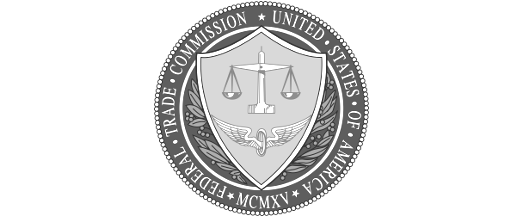
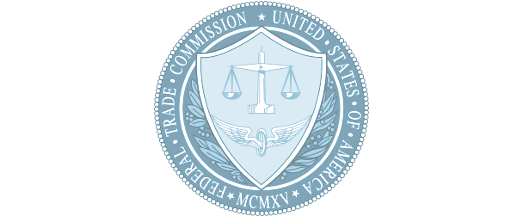
home page improvements

Changed region(s): [[0.2748, 0.0, 0.7023, 0.9908]]

diff --git a/_site/index.html b/_site/index.html
@@ -80,25 +80,25 @@
     </div> <!-- /container -->
 </div><!-- /headerwrap -->
 
-  <div id="service" style="background:#dfe8ec;padding-top:50px;padding-bottom:50px;">
+  <div id="service" style="background:#dfe8ec;padding-top:50px;padding-bottom:50px;border-top: 1px solid #cedce3;border-bottom: 1px solid #cedce3;">
     <div class="container">
         <div class="row centered">
 
             <div class="col-md-4">
                 <a href="/gw/open/" ><img src="/gw/assets/img/chart.png" width="60">
-                <h4 style="color:#2e4450;font-size:18px;margin-bottom:0;font-weight:600;">Visualize</h4></a>
+                <h4 style="color:#5d8aa2;font-size:18px;margin-bottom:0;font-weight:600;">Visualize</h4></a>
                 <p class="text-muted" style="font-weight:300;">Lorem ipsum dolor sit amet, molestie eros cubilia, condimentum lacinia ligula habitasse et.</p>
             </div>
 
             <div class="col-md-4">
                <a href="/gw/combine/"> <img src="/gw/assets/img/magnifier.png" width="60">
-            <h4 style="color:#2e4450;font-size:18px;margin-bottom:0;font-weight:600;">Search</h4></a>
+            <h4 style="color:#5d8aa2;font-size:18px;margin-bottom:0;font-weight:600;">Search</h4></a>
                 <p class="text-muted" style="font-weight:300;margin-top:5px;">Lorem ipsum dolor sit amet, molestie eros cubilia, condimentum lacinia ligula habitasse et.</p>
             </div>
 
             <div class="col-md-4">
                 <a href="/gw/expose/"><img src="/gw/assets/img/cursor.png" width="60">
-                <h4 style="color:#2e4450;font-size:18px;margin-bottom:0;font-weight:600;">Browse</h4></a>
+                <h4 style="color:#5d8aa2;font-size:18px;margin-bottom:0;font-weight:600;">Browse</h4></a>
                 <p class="text-muted" style="font-weight:300;margin-top:5px;">Lorem ipsum dolor sit amet, molestie eros cubilia, condimentum lacinia ligula habitasse et.</p>
             </div>
         </div>
@@ -111,55 +111,62 @@
 <div id="zwrap">
     <div class="container">
         <div class="row centered">
+        	<div class="col-md-10 col-md-offset-1">
             
                 <div class="col-lg-3 col-md-3 col-sm-3">
-                    <img src="/gw/assets/img/clients/gsa.png" class="img-responsive" style="max-width:55%;">
+                	<a href="http://www.gsa.gov/">
+                    <img src="/gw/assets/img/clients/gsa.png" class="img-responsive" style="max-width:55%;"></a>
                 </div>
             
                 <div class="col-lg-3 col-md-3 col-sm-3">
-                    <img src="/gw/assets/img/clients/ita.png" class="img-responsive" style="max-width:55%;">
+                	<a href="http://trade.gov/">
+                    <img src="/gw/assets/img/clients/ita.png" class="img-responsive" style="max-width:55%;"></a>
                 </div>
             
                 <div class="col-lg-3 col-md-3 col-sm-3">
-                    <img src="/gw/assets/img/clients/ftc.png" class="img-responsive" style="max-width:55%;">
+                	<a href="https://www.ftc.gov/">
+                    <img src="/gw/assets/img/clients/ftc.png" class="img-responsive" style="max-width:55%;"></a>
                 </div>
             
                 <div class="col-lg-3 col-md-3 col-sm-3">
-                    <img src="/gw/assets/img/clients/susa.png" class="img-responsive" style="max-width:55%;">
+                	<a href="https://www.selectusa.gov">
+                    <img src="/gw/assets/img/clients/susa.png" class="img-responsive" style="max-width:55%;"></a>
                 </div>
             
+            </div>
         </div><! --/row -->
+         </br><hr class="style-two">
     </div><! --/container -->
 </div><! --/cwrap -->
 
 </div>
 
-<div class="jumbotron" style="background-color:#fff;height:400px;margin-top:50px;margin-bottom:0;padding-top:40px;padding-bottom:40px;">
+<div class="jumbotron" style="background-color:#fff;margin-top:0px;margin-bottom:0;padding-top:25px;padding-bottom:100px;">
       <div class="container">
-        <p>under contruction...</p>
-        <h3 class="home">How It Works</h3>
         <div class="row centered">
-
+            <div class="col-md-10 col-md-offset-1">
+            <h2 style="color:#2e4450;font-size:36px;font-weight:700;">How It Works</h2></br>
             <div class="col-md-4">
-                <a href="/gw/open/" ><h4 style="color:#2e4450;font-size:18px;margin-bottom:0;font-weight:600;">Open</h4></a>
-                
+                <a href="/gw/open/" ><h4 style="color:#2e4450;font-size:24px;margin-bottom:0;font-weight:400;">1. Open</h4></a>
+                <p style="font-size:18px;line-height:1.5em;">Facilisis viverra ligula amet odio elit, hymenaeos diam, nullam a mattis suscipit, justo viverra quis, aliquam.</p>
             </div>
 
             <div class="col-md-4">
-            <a href="/gw/combine/"><h4 style="color:#2e4450;font-size:18px;margin-bottom:0;font-weight:600;">Combine</h4></a>
-               
+            <a href="/gw/combine/"><h4 style="color:#2e4450;font-size:24px;margin-bottom:0;font-weight:400;">2. Combine</h4></a>
+               <p style="font-size:18px;line-height:1.5em;">At dignissim enim nec commodo. Adipiscing porttitor consequat quis vitae, massa euismod venenatis dictum.</p>
             </div>
 
             <div class="col-md-4">
-                <a href="/gw/expose/"><h4 style="color:#2e4450;font-size:18px;margin-bottom:0;font-weight:600;">Expose</h4></a>
-                
+                <a href="/gw/expose/"><h4 style="color:#2e4450;font-size:24px;margin-bottom:0;font-weight:400;">3. Expose</h4></a>
+                <p style="font-size:18px;line-height:1.5em;">Consectetuer eleifend vitae purus elit odio rhoncus, pulvinar enim at phasellus sit dignissim senectus, velit vivamus.</p>
+            </div>
             </div>
         </div>
       </div>
     </div>
 
 
-    <div class="jumbotron" style="background-color:#eff3f6;margin-bottom:0;padding-top:40px;padding-bottom:40px;">
+    <div class="jumbotron" style="background-color:#eff3f6;margin-bottom:0;padding-top:40px;padding-bottom:40px;border-top: 1px solid #dee6ed;border-bottom: 1px solid #dee6ed;">
       <div class="container">
         <h3 class="home">Our Services</h3>
         <p>Custom information solutions based on your needs.</p>

diff --git a/index.html b/index.html
@@ -6,25 +6,25 @@ permalink: /
 
 
 
-<div id="service" style="background:#dfe8ec;padding-top:50px;padding-bottom:50px;">
+<div id="service" style="background:#dfe8ec;padding-top:50px;padding-bottom:50px;border-top: 1px solid #cedce3;border-bottom: 1px solid #cedce3;">
     <div class="container">
         <div class="row centered">
 
             <div class="col-md-4">
                 <a href="{{site.baseurl}}/open/" ><img src="{{site.baseurl}}/assets/img/chart.png" width="60">
-                <h4 style="color:#2e4450;font-size:18px;margin-bottom:0;font-weight:600;">Visualize</h4></a>
+                <h4 style="color:#5d8aa2;font-size:18px;margin-bottom:0;font-weight:600;">Visualize</h4></a>
                 <p class="text-muted" style="font-weight:300;">Lorem ipsum dolor sit amet, molestie eros cubilia, condimentum lacinia ligula habitasse et.</p>
             </div>
 
             <div class="col-md-4">
                <a href="{{site.baseurl}}/combine/"> <img src="{{site.baseurl}}/assets/img/magnifier.png" width="60">
-            <h4 style="color:#2e4450;font-size:18px;margin-bottom:0;font-weight:600;">Search</h4></a>
+            <h4 style="color:#5d8aa2;font-size:18px;margin-bottom:0;font-weight:600;">Search</h4></a>
                 <p class="text-muted" style="font-weight:300;margin-top:5px;">Lorem ipsum dolor sit amet, molestie eros cubilia, condimentum lacinia ligula habitasse et.</p>
             </div>
 
             <div class="col-md-4">
                 <a href="{{site.baseurl}}/expose/"><img src="{{site.baseurl}}/assets/img/cursor.png" width="60">
-                <h4 style="color:#2e4450;font-size:18px;margin-bottom:0;font-weight:600;">Browse</h4></a>
+                <h4 style="color:#5d8aa2;font-size:18px;margin-bottom:0;font-weight:600;">Browse</h4></a>
                 <p class="text-muted" style="font-weight:300;margin-top:5px;">Lorem ipsum dolor sit amet, molestie eros cubilia, condimentum lacinia ligula habitasse et.</p>
             </div>
         </div>
@@ -37,32 +37,32 @@ permalink: /
 {% include clients.html %}
 </div>
 
-<div class="jumbotron" style="background-color:#fff;height:400px;margin-top:50px;margin-bottom:0;padding-top:40px;padding-bottom:40px;">
+<div class="jumbotron" style="background-color:#fff;margin-top:0px;margin-bottom:0;padding-top:25px;padding-bottom:100px;">
       <div class="container">
-        <p>under contruction...</p>
-        <h3 class="home">How It Works</h3>
         <div class="row centered">
-
+            <div class="col-md-10 col-md-offset-1">
+            <h2 style="color:#2e4450;font-size:36px;font-weight:700;">How It Works</h2></br>
             <div class="col-md-4">
-                <a href="{{site.baseurl}}/open/" ><h4 style="color:#2e4450;font-size:18px;margin-bottom:0;font-weight:600;">Open</h4></a>
-                
+                <a href="{{site.baseurl}}/open/" ><h4 style="color:#2e4450;font-size:24px;margin-bottom:0;font-weight:400;">1. Open</h4></a>
+                <p style="font-size:18px;line-height:1.5em;">Facilisis viverra ligula amet odio elit, hymenaeos diam, nullam a mattis suscipit, justo viverra quis, aliquam.</p>
             </div>
 
             <div class="col-md-4">
-            <a href="{{site.baseurl}}/combine/"><h4 style="color:#2e4450;font-size:18px;margin-bottom:0;font-weight:600;">Combine</h4></a>
-               
+            <a href="{{site.baseurl}}/combine/"><h4 style="color:#2e4450;font-size:24px;margin-bottom:0;font-weight:400;">2. Combine</h4></a>
+               <p style="font-size:18px;line-height:1.5em;">At dignissim enim nec commodo. Adipiscing porttitor consequat quis vitae, massa euismod venenatis dictum.</p>
             </div>
 
             <div class="col-md-4">
-                <a href="{{site.baseurl}}/expose/"><h4 style="color:#2e4450;font-size:18px;margin-bottom:0;font-weight:600;">Expose</h4></a>
-                
+                <a href="{{site.baseurl}}/expose/"><h4 style="color:#2e4450;font-size:24px;margin-bottom:0;font-weight:400;">3. Expose</h4></a>
+                <p style="font-size:18px;line-height:1.5em;">Consectetuer eleifend vitae purus elit odio rhoncus, pulvinar enim at phasellus sit dignissim senectus, velit vivamus.</p>
+            </div>
             </div>
         </div>
       </div>
     </div>
 
 
-    <div class="jumbotron" style="background-color:#eff3f6;margin-bottom:0;padding-top:40px;padding-bottom:40px;">
+    <div class="jumbotron" style="background-color:#eff3f6;margin-bottom:0;padding-top:40px;padding-bottom:40px;border-top: 1px solid #dee6ed;border-bottom: 1px solid #dee6ed;">
       <div class="container">
         <h3 class="home">Our Services</h3>
         <p>Custom information solutions based on your needs.</p>

diff --git a/_includes/clients.html b/_includes/clients.html
@@ -1,11 +1,15 @@
 <div id="zwrap">
     <div class="container">
         <div class="row centered">
+        	<div class="col-md-10 col-md-offset-1">
             {% for client in site.clients %}
                 <div class="col-lg-3 col-md-3 col-sm-3">
-                    <img src="{{ "/assets/img/clients/" | prepend: site.baseurl }}{{ client.img }}" class="img-responsive" style="max-width:55%;">
+                	<a href="{{ client.link }}">
+                    <img src="{{ "/assets/img/clients/" | prepend: site.baseurl }}{{ client.img }}" class="img-responsive" style="max-width:55%;"></a>
                 </div>
             {% endfor %}
+            </div>
         </div><! --/row -->
+         </br><hr class="style-two">
     </div><! --/container -->
 </div><! --/cwrap -->

diff --git a/_includes/css/style.css b/_includes/css/style.css
@@ -103,7 +103,7 @@ font-size:20px;
 .home {
 font-family: 'Open Sans', sans-serif;
 margin: 0 0 15px;
-font-size: 28px;
+font-size: 24px;
 line-height: 1.1em;
 font-weight:400;
 color:#2b8275;
@@ -300,6 +300,7 @@ margin: 0px auto 15px;
 	padding-top: 75px;
 	padding-bottom: 50px;
 	text-align: center;
+	border-top: 1px solid #cedce3;
 }
 
 #headerwrap h3, h5 {
@@ -421,10 +422,16 @@ margin: 0px auto 15px;
 }
 
 #zwrap {
-	background: #f7f7f7;
+	background: #fff;
 	margin-top: 0px;
-	padding-top: 25px;
-	padding-bottom: 25px;
+	padding-top: 35px;
+	padding-bottom: 35px;
+}
+
+hr.style-two {
+    border: 0;
+    height: 1px;
+    background-image: linear-gradient(to right, rgba(0, 0, 0, 0), rgba(191, 209, 217, 0.75), rgba(0, 0, 0, 0));
 }
 
 /* clients logo */

diff --git a/_site/assets/css/style.css b/_site/assets/css/style.css
@@ -103,7 +103,7 @@ font-size:20px;
 .home {
 font-family: 'Open Sans', sans-serif;
 margin: 0 0 15px;
-font-size: 28px;
+font-size: 24px;
 line-height: 1.1em;
 font-weight:400;
 color:#2b8275;
@@ -300,6 +300,7 @@ margin: 0px auto 15px;
 	padding-top: 75px;
 	padding-bottom: 50px;
 	text-align: center;
+	border-top: 1px solid #cedce3;
 }
 
 #headerwrap h3, h5 {
@@ -421,10 +422,16 @@ margin: 0px auto 15px;
 }
 
 #zwrap {
-	background: #f7f7f7;
+	background: #fff;
 	margin-top: 0px;
-	padding-top: 25px;
-	padding-bottom: 25px;
+	padding-top: 35px;
+	padding-bottom: 35px;
+}
+
+hr.style-two {
+    border: 0;
+    height: 1px;
+    background-image: linear-gradient(to right, rgba(0, 0, 0, 0), rgba(191, 209, 217, 0.75), rgba(0, 0, 0, 0));
 }
 
 /* clients logo */
